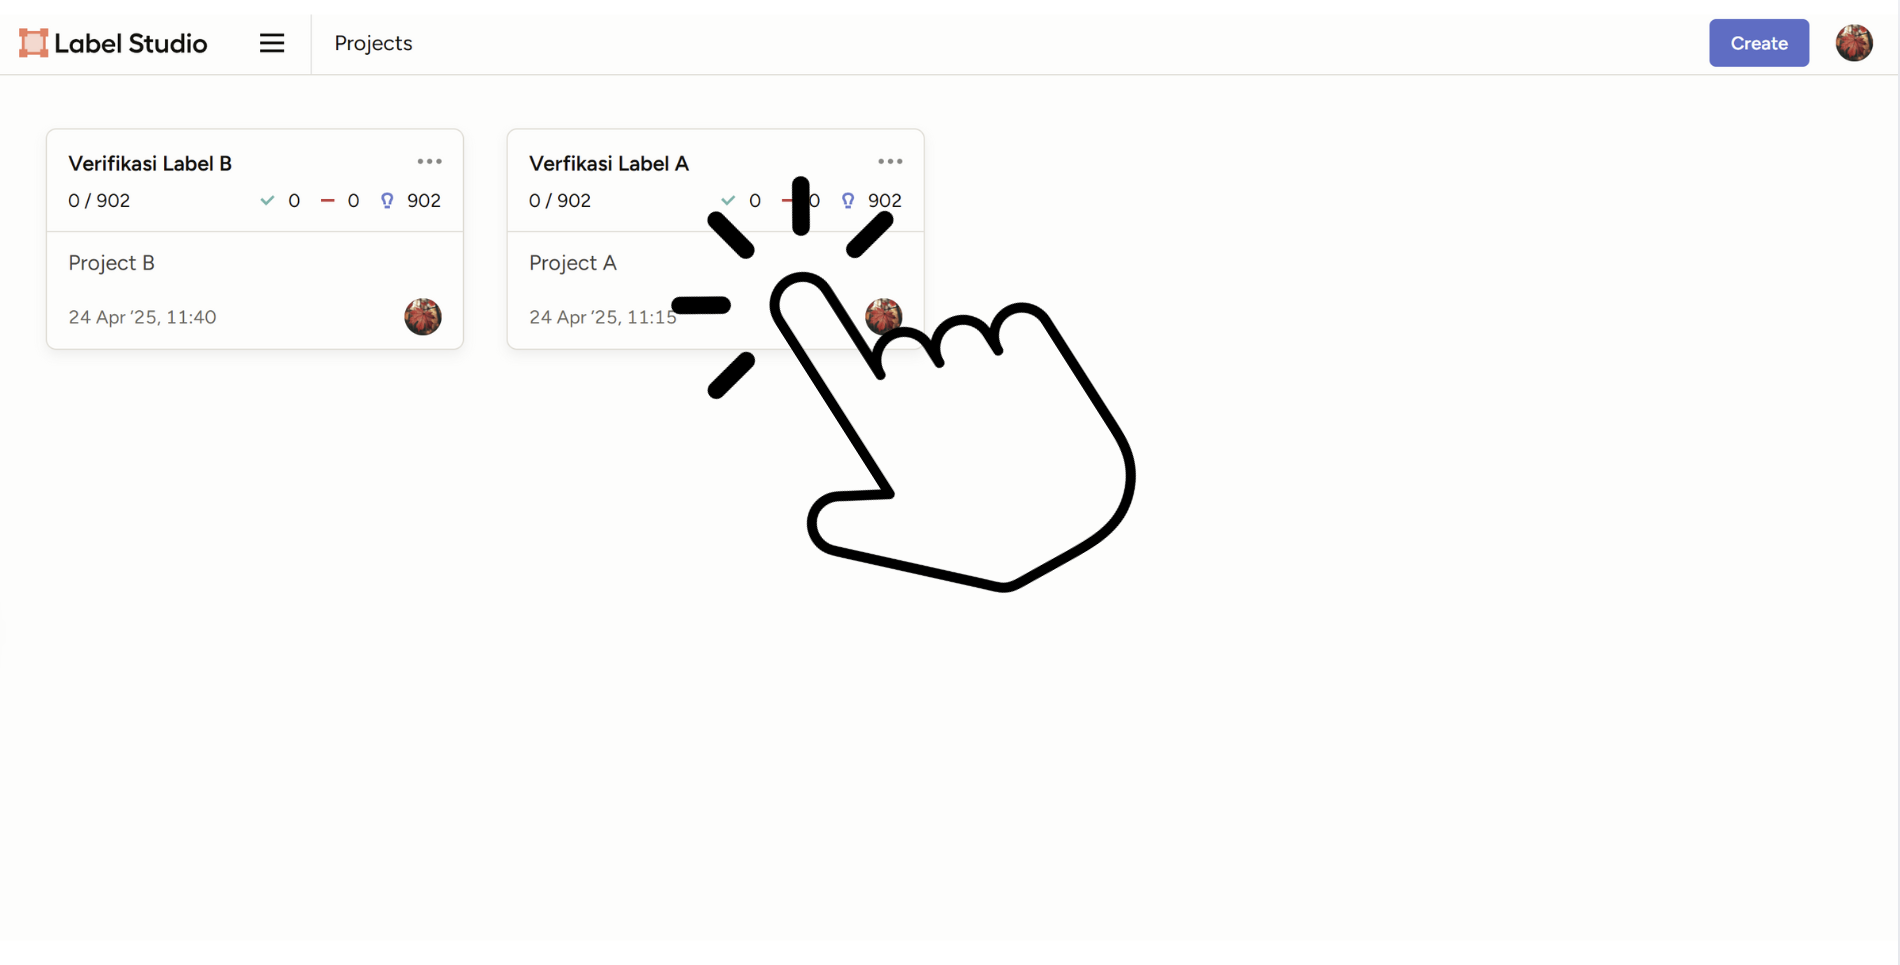
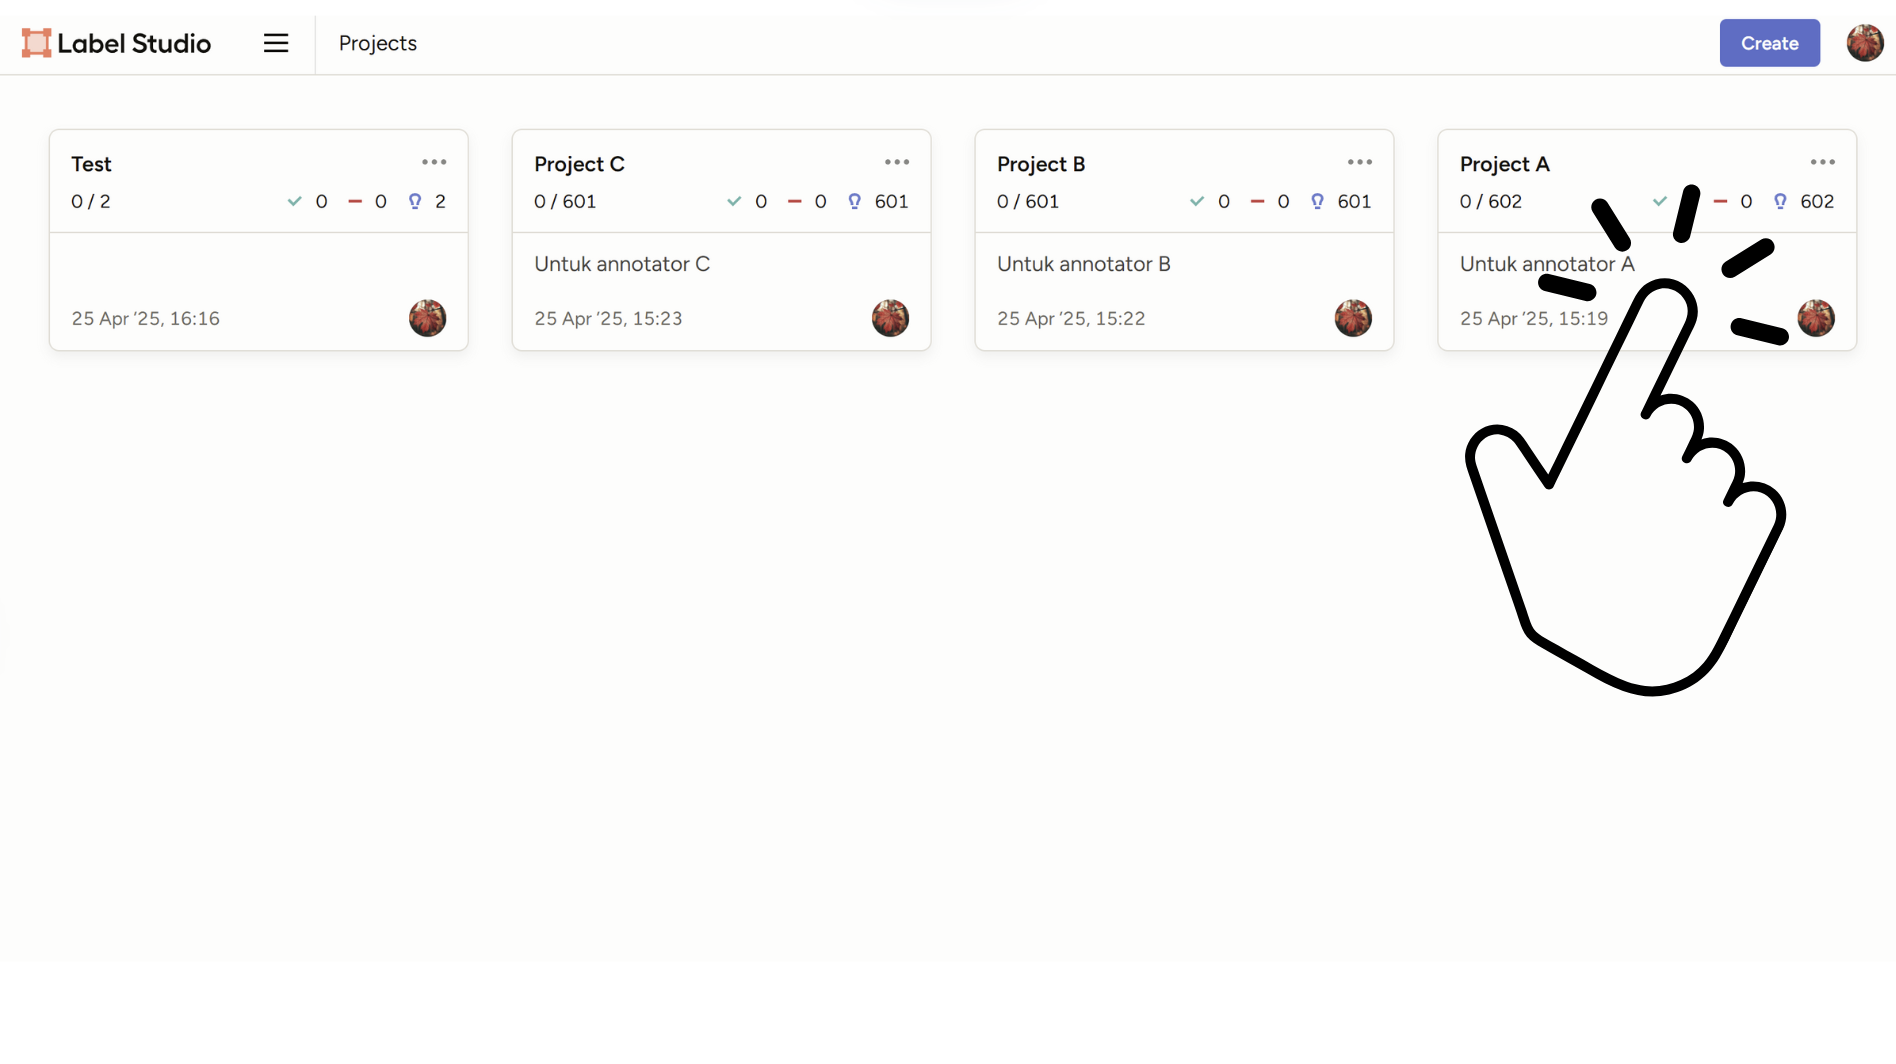
Add content up to Project

diff --git a/index.md b/index.md
@@ -33,12 +33,12 @@ Ketika anda berhasil sudah pernah melakukan registrasi terhadap web anotasi sebe
 
 ### 4. Mengakses *Dashboard* utama label-studio
 
-Ketika anda telah berhasil melakukan autentikasi ke dalam web anotasi `sylphian.me`, anda akan memasuki halaman `Dashboard` utama. Pada halaman ini, anda akan diberikan dua buah project, yaitu `Project A` dan `Project B`.
+Ketika anda telah berhasil melakukan autentikasi ke dalam web anotasi `sylphian.me`, anda akan memasuki halaman `Dashboard` utama. Pada halaman ini, anda akan diperlihatkan project-project yang dapat anda akses, beberapa diantaranya adalah `Project A`, `Project B`, dan `Project C`.
 
 <img src="img/dashboard.png" height="auto" width="640" style="border: 2px solid #333; border-radius:2%">
 <div style="text-align: center;">Halaman dashboard, dengan project A dan project B di dalamnya</div>
 
-Masing-masing dari kedua project tersebut memiliki `902` dokumen untuk anda (anotator) anotasikan, sehingga total dokumen yang akan dinotasi adalah `1804`.  
+Masing-masing dari kedua project tersebut memiliki `~601` dokumen untuk anda (anotator) anotasikan, dengan total dokumen yang akan dinotasi adalah `1804`.  
 
 ### 5. Mengakses salah-satu Project dalam label-studio
 
@@ -52,9 +52,40 @@ Ketika anda telah mengakses salah satu project yang dipilih melalui dashboard, m
 <img src="img/project.png" height="auto" width="640" style="border: 2px solid #333; border-radius:2%">
 <div style="text-align: center;">Halaman Project A</div>
 
+### 6. Navigasi Project dalam label-studio
+
 Pada halaman project, anda akan diperlihatkan kumpulan **dokumen**-**dokumen** yang anda akan anotasi. Berikut adalah detail dari list dokumen yang perlu anda perhatikan:
-- Lorem ipsum
-- Lorem ipsum
+
+<img src="img/project-highlight.png" height="auto" width="640" style="border: 2px solid #333; border-radius:2%">
+<div style="text-align: center;">Detail-detail dalam sebuah project</div>
+
+- Kotak **<code><span style="color: blue;">BIRU</span></code>** merupakan atribut utama yang mendefiniskan sebuah entry, sepert:
+    - **text** Merupakan isi tulisan yang berada di dalam dokumen tersebut, untuk di anotasikan.  
+    - **id** adalah nomor unik dari yang berperan sebagai nomor identitas dari setiap dokumennya.
+    - **judul** adalah judul dari dokumen tersebut.
+- Kotak **<code><span style="color: red;">MERAH</span></code>** merupakan *list* atau kumpulan dokumen yang perlu anda notasikan.
+    
+- Kotak **<code><span style="color: green;">HIJAU</span></code>** merupakan atribut status anotasi yang ada pada masing-masing dokumen, seperti:
+    - **Completed** merupakan status yang menandakan apakah dokumen tersebut **sudah** selesai dianotasikan. Jika kolom tersebut masih kosong untuk suatu dokumen, artinya dokumen tersebut belum selesai dianotasi.
+    - **Annotated by** merupakan penanda siapakah yang telah menyelesaikan anotasi pada dokumen tersebut. Jika kolom tersebut masih kosong untuk suatu dokumen, artinya dokumen tersebut juga belum selesai dianotasi.
+    - Klik [tautan berikut]() untuk melihat cara menyelesaikan proses anotasi.
+
+<img src="img/sort.png" height="auto" width="640" style="border: 2px solid #333; border-radius:2%">
+<div style="text-align: center;">Melakukan sorting terhadap dokumen</div>
+
+Anda juga dapat melakukan *sorting* terhadap dokumen yang ingin anda anotasikan. Salah satu hal yang paling berguna untuk fitur ini adalah melakukan *sorting* terhadap dokumen-dokumen yang belum anda anotasikan untuk *berada di paling atas*, dengan memasukkan atribut `Completed` pada tahap *sorting*.
+
+### 7. Mengakses dokumen anotasi dalam Project label-studio
+
+Anda dapat membuka dokumen yang dituju untuk melakukan **anotasi** pada dokumen tersebut, dengan menekan area dokumen yang berkaitan, seperti yang diperlihatkan pada gambar berikut ini.
+
+<img src="img/dokumen-click.png" height="auto" width="640" style="border: 2px solid #333; border-radius:2%">
+<div style="text-align: center;">Melakukan sorting terhadap dokumen</div>
+
+Setelah anda melakukan tahap tersebut, anda akan ditujukan kepada halaman anotasi pada dokumen tersebut, seperti yang diperlihatkan pada gambar berikut ini.
+
+<img src="img/dokumen.png" height="auto" width="640" style="border: 2px solid #333; border-radius:2%">
+<div style="text-align: center;">Halaman anotasi dokumen</div>
 
 # Kontak Developer
 
